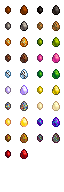
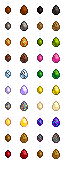
added artifact chicken

Changed region(s): [[0.8125, 0.7812, 0.9375, 0.8438], [0.5625, 0.7812, 0.6875, 0.8438]]

diff --git a/ResourceChickens/README.md b/ResourceChickens/README.md
@@ -34,6 +34,7 @@
 
 #### Level 5 Chickens
 
+-   **Artifact Chicken**
 -   **Iridium Chicken**
 
 #### MORE CHICKENS IN PROGRESS!
@@ -49,6 +50,7 @@ Each subsequent increase in chicken level adds 10% to both the sell price of egg
 	
 | Chicken Type | How To Obtain | Requirement |
 | --- | --- | --- |
+| Artifact | Acquirable from the Desert Trader once a short quest involving Sandy has been received | Mining Level 5 |
 | Bone | Rare drop from barrels in the Mines level 80+, fossil stones in the Skull Cavern, and some secret spots | Foraging Level 4 |
 | Bomb | Rare drop from barels in the Skull Cavern, becomes purchasable from the Dwarf after 3 hearts of friendship with them | Mining Level 4 |
 | Bait | Forage around the Beach Tide Pools the day after rain | Fishing Level 2 |
@@ -202,6 +204,8 @@ Want to help translate this mod into another language? This mod is fully prepare
 ### ![compatibility](https://github.com/UncleArya/StardewMods/assets/100550741/62adfeb8-14bd-4bb0-87bf-0c63bc97935a)
 
 This mod relies entirely on [Content Patcher](https://www.nexusmods.com/stardewvalley/mods/1915), so it should be fully compatible with pretty much every other mod out there.
+
+Works with [Machine Progression System](https://www.nexusmods.com/stardewvalley/mods/21720). The mod author has added support for resource eggs into their mayo machines!
 
 Please let me know if you come across any issues.
 

diff --git a/ResourceChickens/CHANGELOG.md b/ResourceChickens/CHANGELOG.md
@@ -4,10 +4,10 @@
 
 -   Added new Level 3 Chicken (Farmer)
 -   Added new Level 4 Chickens (Bomb, Monster)
--   Added new Level 5 Chicken (Iridium)
+-   Added new Level 5 Chickens (Artifact, Iridium)
 -   Created quest to obtain a Farmer Chicken Egg
 -   Added spawn conditions for Bomb and Monster Chicken Eggs
--   Added shop items for Krobus, Marnie, and the Dwarf once unlock conditions are satisfied
+-   Added shop items for Krobus, Marnie, the Dwarf, and the Desert Trader once unlock conditions are satisfied
 -   Added craftable Iridium Fusion Chamber
 -   Created custom Geode Egg mining node; Geode Eggs now drop only from the custom node, not from vanilla-looking geode nodes
 
